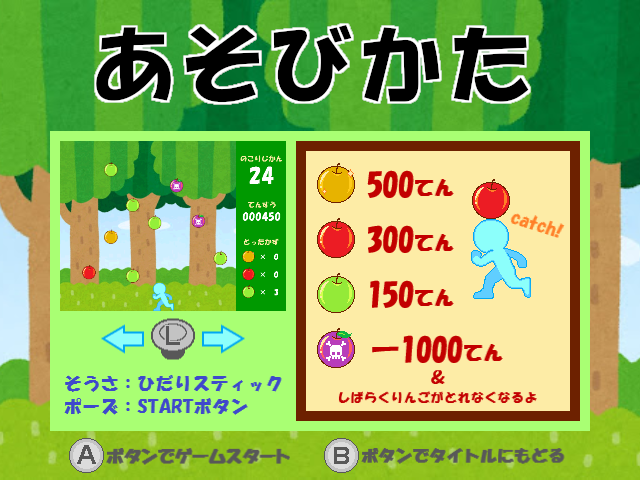
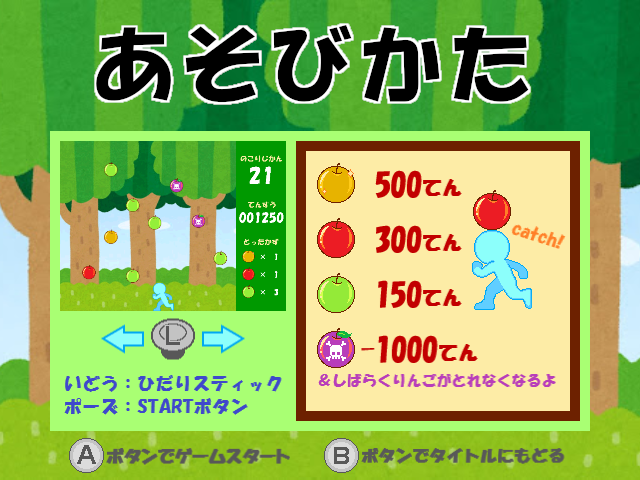
画像を追加しました

diff --git a/applegame/applegame/main.cpp b/applegame/applegame/main.cpp
@@ -109,7 +109,7 @@ int WINAPI WinMain(HINSTANCE hInstance, HINSTANCE hPrevInstance,
 	if (ReadRanking() == -1)return -1;
 
 	FontHandle1 = CreateFontToHandle("HGS創英角ﾎﾟｯﾌﾟ体", 55, 3, DX_FONTTYPE_NORMAL);
-	FontHandle2 = CreateFontToHandle("HGS創英角ﾎﾟｯﾌﾟ体", 27, 3, DX_FONTTYPE_NORMAL);
+	FontHandle2 = CreateFontToHandle("HGS創英角ﾎﾟｯﾌﾟ体", 32, 3, DX_FONTTYPE_NORMAL);
 	FontHandle3 = CreateFontToHandle("HGS創英角ﾎﾟｯﾌﾟ体", 20, 3, DX_FONTTYPE_NORMAL);
 	FontHandle4 = CreateFontToHandle("HGS創英角ﾎﾟｯﾌﾟ体", 36, 3, DX_FONTTYPE_NORMAL);
 
@@ -388,7 +388,7 @@ void BackScrool() {
 
 	//スコアの描画
 	DrawFormatStringToHandle(533, 170, 0xfdeca6, FontHandle3, "てんすう");
-	DrawFormatStringToHandle(518, 200, 0xFFFFFF, FontHandle2, "%06d", g_Score);
+	DrawFormatStringToHandle(508, 200, 0xFFFFFF, FontHandle2, "%06d", g_Score);
 
 	//獲得したりんごの個数を描画
 	DrawFormatStringToHandle(520, 275, 0xfdeca6, FontHandle3, "とったかず");
